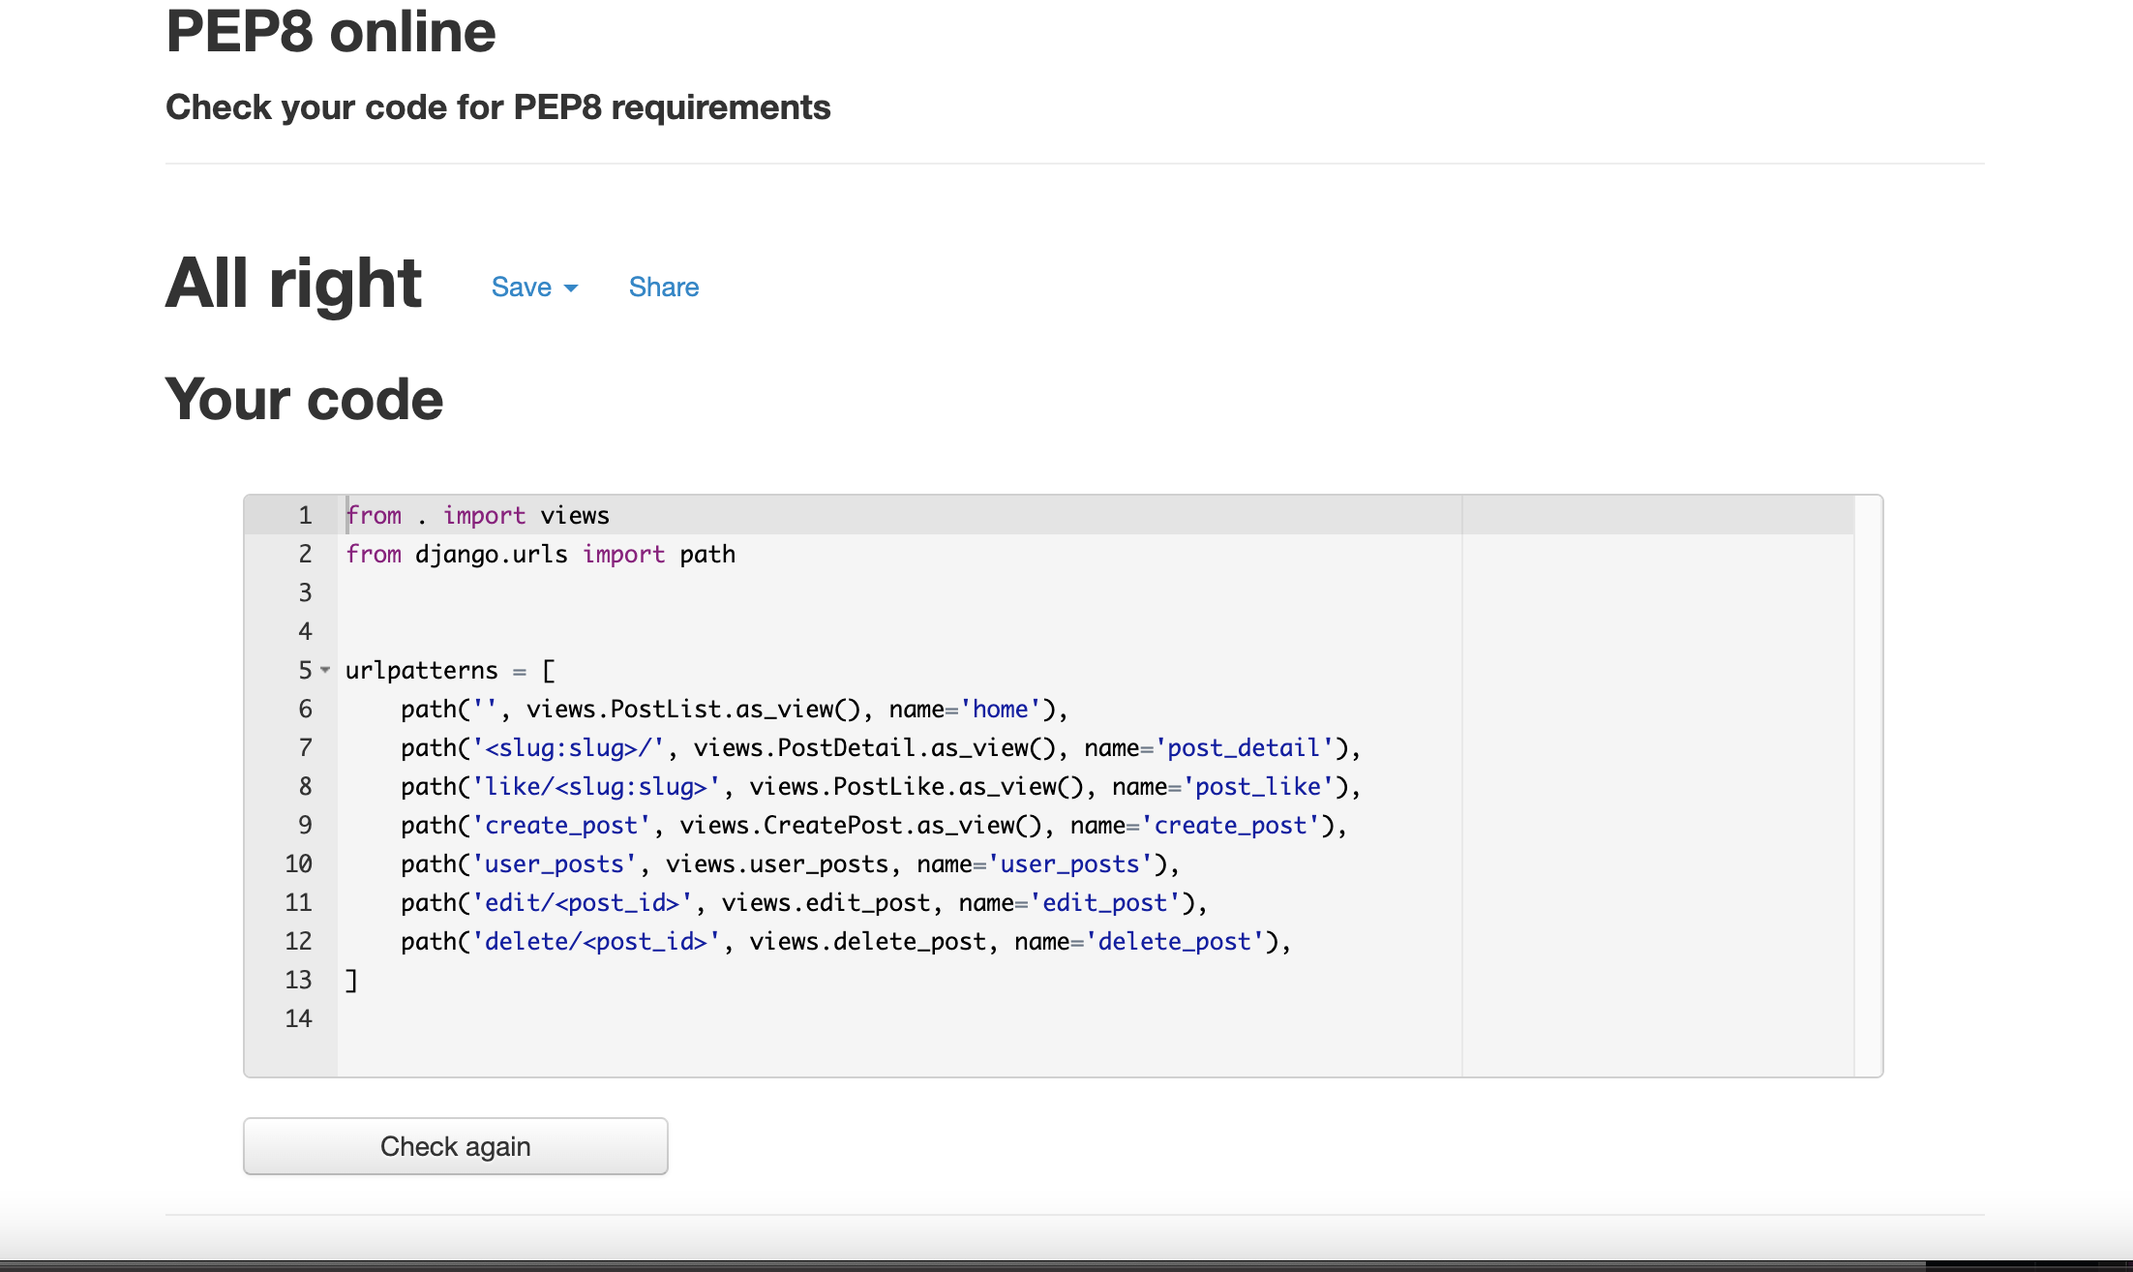
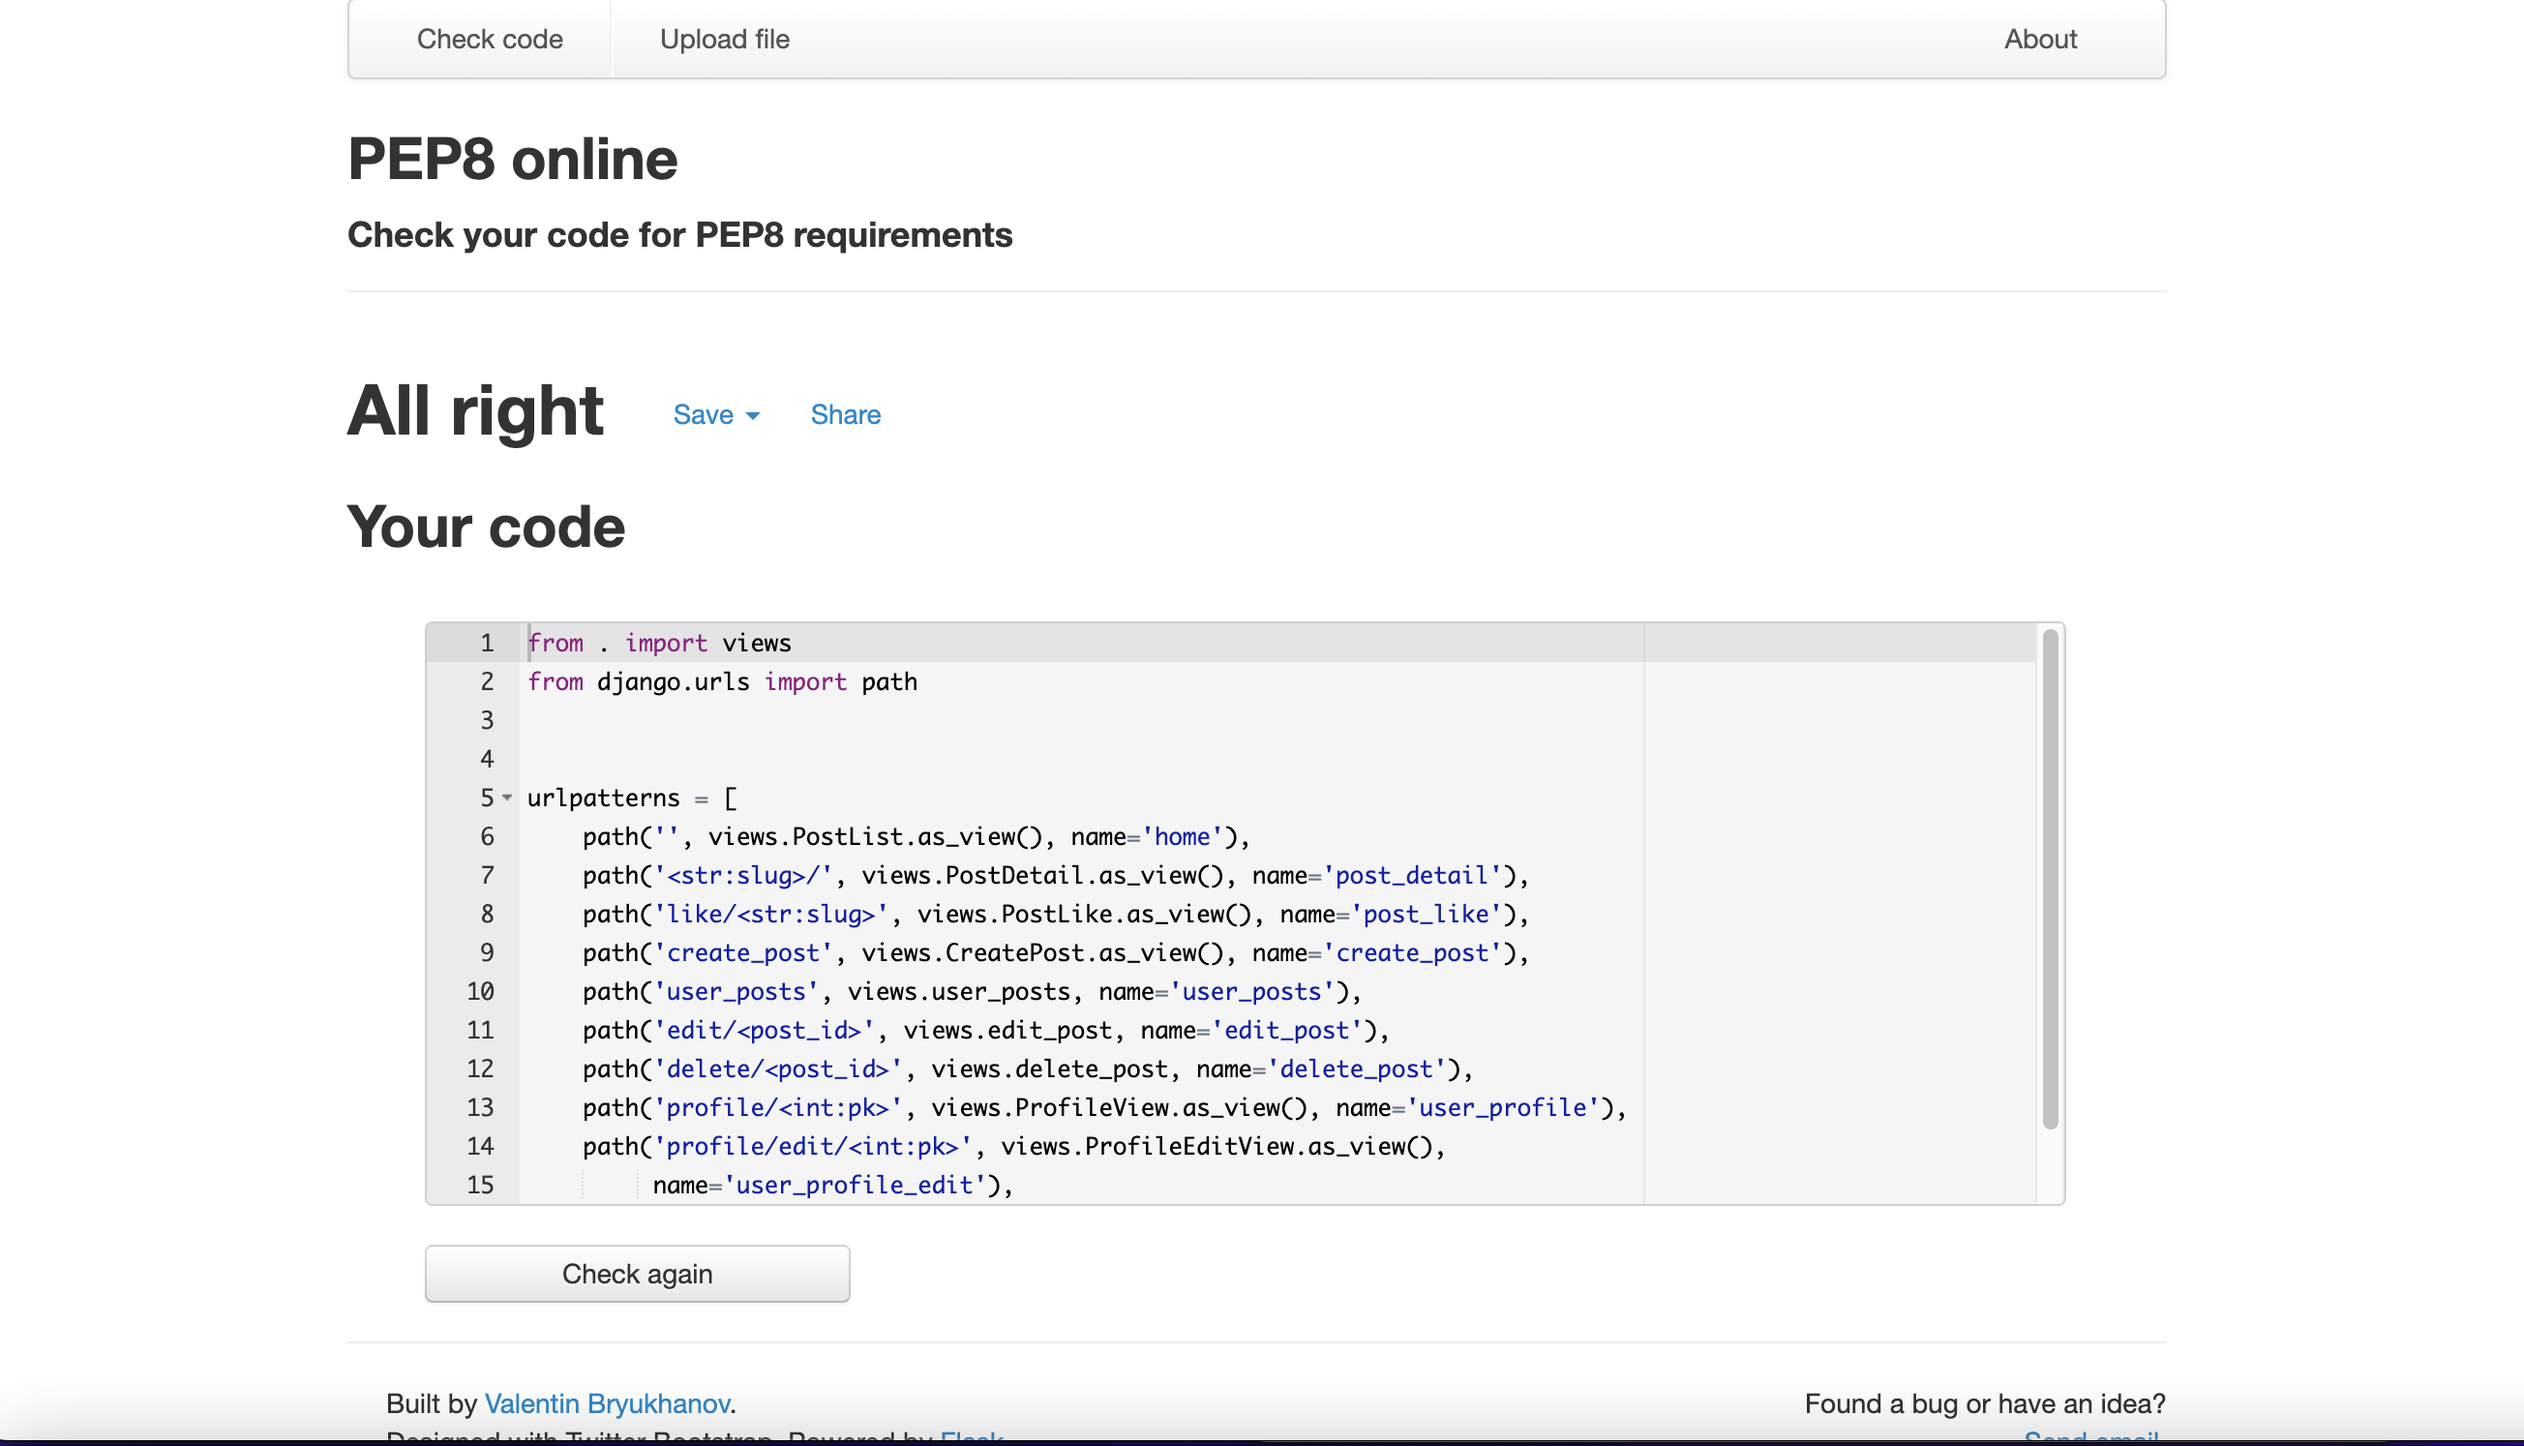
Update README.md and add screenshots

diff --git a/README.md b/README.md
@@ -151,9 +151,9 @@ I used Django to run automated testing however, sqlite3 was used as a local data
 
 * Comment model comments being ordered by creation date, and commenter name was returned along with the comment. 
 
-* Author model 
+* For the Author Profile model the user, the bio and location is returned.
 
-* The paths from url.py that I didn't cover in my automated tested which were users_post, edit_post and delete_post. These links are working.
+* The paths from url.py that I didn't cover in my automated tested which were users_post, edit_post and delete_post, user_profile and user_profile edit are all working.
 
 * If the user isn't logged in they can't create,edit or delete a post and the user can't comment or like a post. The user can view a post and signup or login.![Unregistered User](assets/images/index_page.png) ![Unregistered User](assets/images/view_post_non_user.png) ![Unregistered User](assets/images/sign_up.png) ![Unregistered User](assets/images/sign_in.png)
 
@@ -195,6 +195,10 @@ I used Django to run automated testing however, sqlite3 was used as a local data
 ## post_detail.html
 * Offical W3C Validator picked up errors for using {{ }} and {% %} syntax, this are used for Django functionality
 ## user_posts.html
+* Offical W3C Validator picked up errors for using {{ }} and {% %} syntax, this are used for Django functionality
+## user_profile.html
+* Offical W3C Validator picked up errors for using {{ }} and {% %} syntax, this are used for Django functionality
+## user_profile_edit.html
 * Offical W3C Validator picked up errors for using {{ }} and {% %} syntax, this are used for Django functionality
 ## django-all_auth's login.html edited for uniformity
 * Offical W3C Validator picked up errors for using {{ }} and {% %} syntax, this are used for Django functionality
